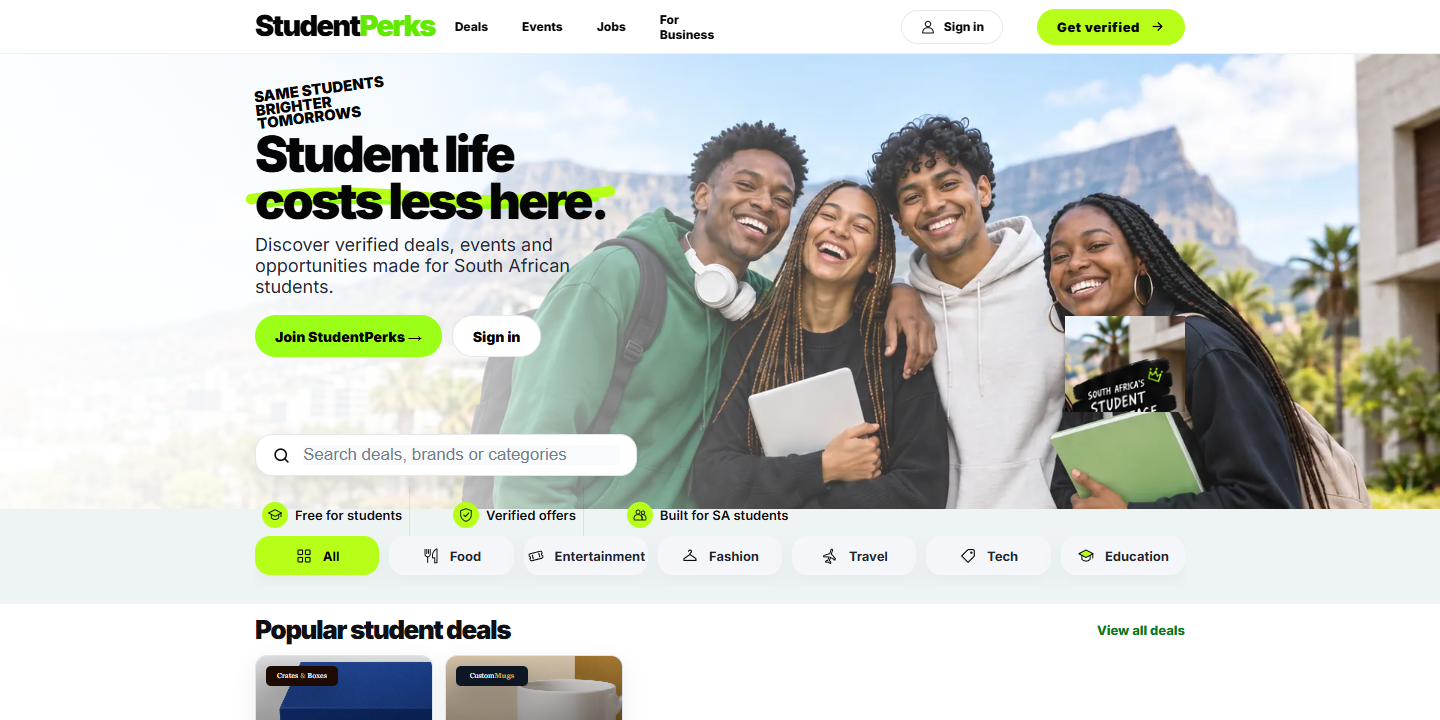
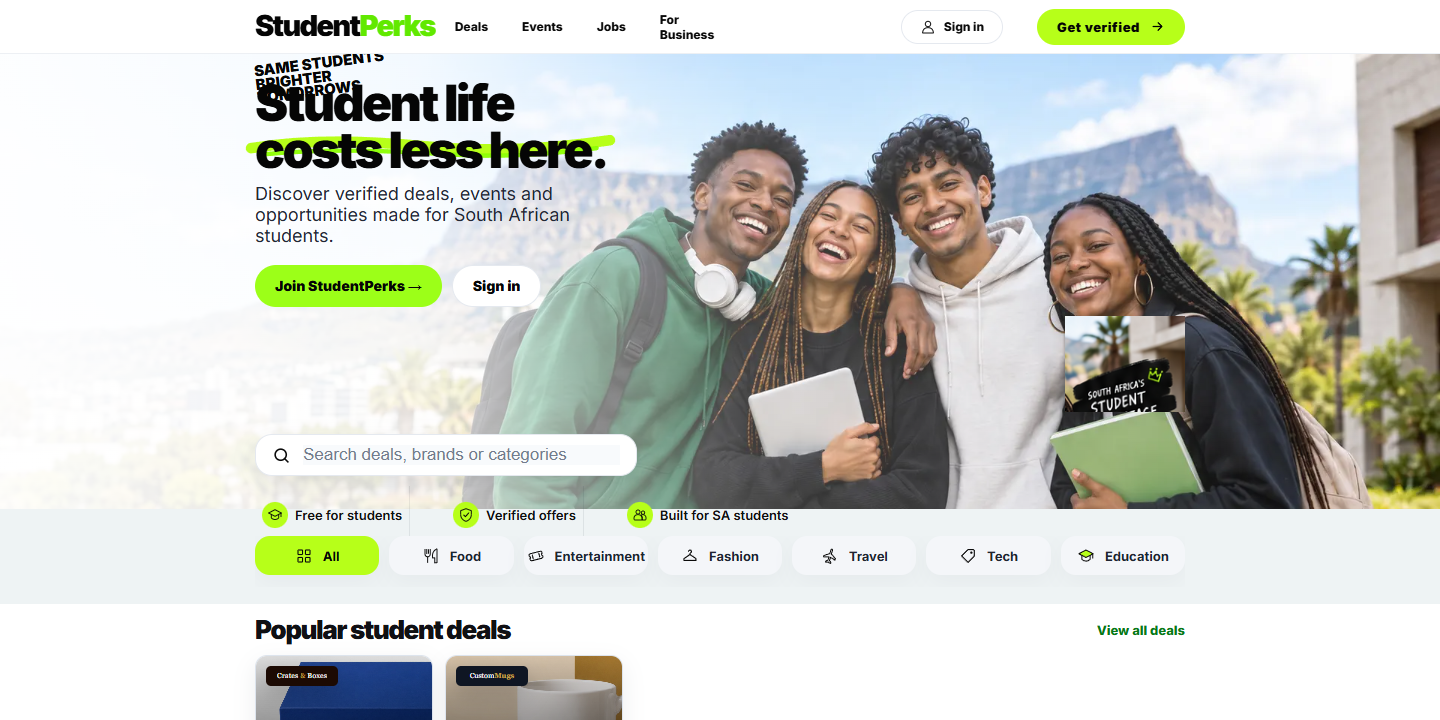
Refine approved hero mobile layout

Changed region(s): [[0.1562, 0.0611, 0.4375, 0.5194]]

diff --git a/index.html b/index.html
@@ -2876,38 +2876,150 @@ body.public-redesign .hero-underlined img {
   body.public-redesign .mock-hero {
     height: auto !important;
     min-height: 0 !important;
-    padding-bottom: 14px !important;
+    padding-bottom: 18px !important;
+    background: #fff !important;
+  }
+
+  body.public-redesign .mock-hero .wrap {
+    height: auto !important;
+    min-height: 0 !important;
+    padding-left: 24px !important;
+    padding-right: 24px !important;
   }
 
   body.public-redesign .mock-hero-card {
-    min-height: 430px !important;
+    position: relative !important;
+    height: 304px !important;
+    min-height: 304px !important;
     aspect-ratio: auto !important;
+    overflow: hidden !important;
+    border-radius: 12px !important;
+    box-shadow: none !important;
   }
 
   body.public-redesign .mock-hero-card > img:first-child {
     height: 100% !important;
-    object-position: 58% center !important;
+    object-position: 59% top !important;
+  }
+
+  body.public-redesign .mock-hero-card::after {
+    inset: 0 !important;
+    width: 100% !important;
+    height: 100% !important;
+    transform: none !important;
+    background: linear-gradient(90deg, rgba(0,0,0,.86) 0%, rgba(0,0,0,.54) 43%, rgba(0,0,0,.16) 100%) !important;
+  }
+
+  body.public-redesign .mock-hero-copy {
+    position: relative !important;
+    z-index: 3;
+    width: min(66%, 300px) !important;
+    max-width: none !important;
+    padding: 28px 18px 18px !important;
   }
 
   body.public-redesign .mock-hero-copy h1 {
-    max-width: 310px;
-    margin-bottom: 12px;
+    max-width: 250px;
+    margin-bottom: 7px;
+    color: #fff;
+    font-size: clamp(34px, 9.4vw, 43px) !important;
+    line-height: .94;
   }
 
   body.public-redesign .hero-handwritten {
+    position: absolute;
+    z-index: 4;
+    top: 24px;
+    right: 16px;
+    width: 114px;
+    max-width: 32%;
+    margin: 0;
+    color: #fff;
+    font-size: clamp(15px, 4.2vw, 18px);
+    line-height: .88;
+    text-align: center;
+    transform: rotate(-7deg);
+  }
+
+  body.public-redesign .mock-hero-copy p {
+    max-width: 250px;
     margin-bottom: 12px;
-    font-size: 17px;
+    color: rgba(255,255,255,.9);
+    font-size: clamp(14px, 3.9vw, 17px) !important;
+    line-height: 1.13;
   }
 
   body.public-redesign .mock-actions {
     display: flex;
     gap: 10px;
+    margin-top: 0;
   }
 
   body.public-redesign .mock-actions .mock-btn {
-    min-height: 44px;
+    min-height: 39px;
     padding: 0 18px;
-    font-size: 14px;
+    font-size: 13px;
+  }
+
+  body.public-redesign .mock-actions .mock-btn.outline {
+    background: rgba(0,0,0,.2);
+    color: #fff;
+    border-color: rgba(255,255,255,.82);
+  }
+
+  body.public-redesign .hero-underlined img {
+    bottom: -.17em;
+    width: 108%;
+  }
+
+  body.public-redesign .benefit-strip {
+    position: static !important;
+    display: grid !important;
+    grid-template-columns: repeat(3, minmax(0, 1fr)) !important;
+    width: 100% !important;
+    margin: 12px 0 0 !important;
+    gap: 0 !important;
+    border-radius: 12px !important;
+    background: #f6f8fb !important;
+    box-shadow: 0 10px 30px rgba(15,23,42,.07) !important;
+    overflow: hidden !important;
+  }
+
+  body.public-redesign .benefit {
+    min-width: 0 !important;
+    min-height: 58px !important;
+    padding: 8px 4px !important;
+    gap: 5px !important;
+    border-right: 1px solid rgba(15,23,42,.08) !important;
+    color: #101014 !important;
+    font-size: clamp(10px, 2.85vw, 12px) !important;
+    line-height: 1.06 !important;
+    font-weight: 800 !important;
+    text-align: center !important;
+    white-space: normal !important;
+    overflow-wrap: anywhere !important;
+  }
+
+  body.public-redesign .benefit:last-child {
+    border-right: 0 !important;
+  }
+
+  body.public-redesign .benefit .approved-icon {
+    flex: 0 0 auto !important;
+    width: 25px !important;
+    height: 25px !important;
+    padding: 4px !important;
+  }
+
+  body.public-redesign .mock-search {
+    position: static !important;
+    width: 100% !important;
+    margin: 16px 0 12px !important;
+  }
+
+  body.public-redesign .mock-cats {
+    position: static !important;
+    width: 100% !important;
   }
 }
 
@@ -3097,8 +3209,8 @@ body.public-redesign .hero-underlined img {
     <div class="mock-hero-card">
       <img src="assets/desktop/backgrounds/hero-table-mountain-clean.webp" alt="South African students with Table Mountain in the background">
       <img class="desktop-student-badge" src="assets/desktop/student-advantage-badge.png" alt="" aria-hidden="true">
+      <div class="hero-handwritten">Same students<br>brighter tomorrows</div>
       <div class="mock-hero-copy">
-        <div class="hero-handwritten">Same students<br>brighter tomorrows</div>
         <h1>Student life<br><span class="hero-underlined">costs less here.<img src="assets/desktop/decor/hero-green-underline.svg" alt="" aria-hidden="true"></span></h1>
         <p>Discover verified deals, events and opportunities made for South African students.</p>
         <div class="mock-actions">
